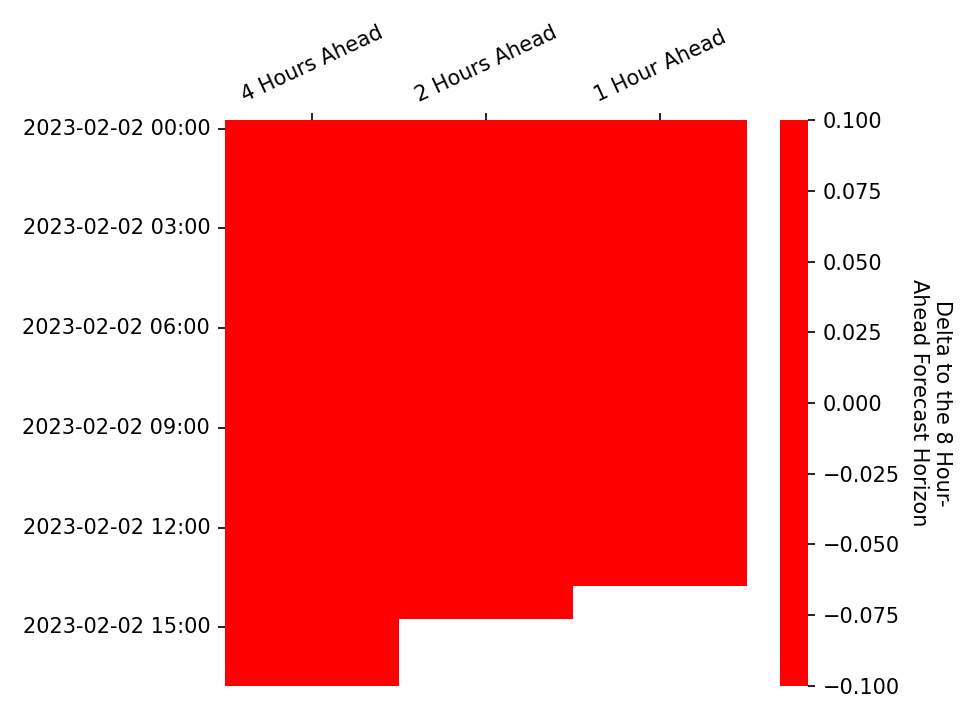
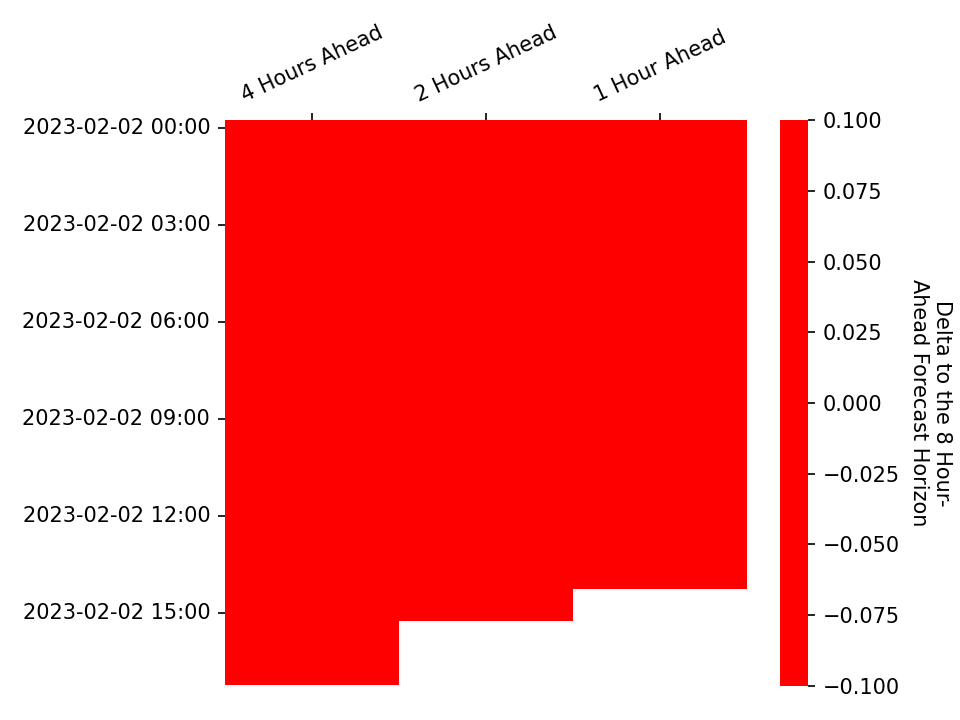
Apply automatic changes

diff --git a/docs/js/map.js b/docs/js/map.js
@@ -144,7 +144,7 @@ document.addEventListener("DOMContentLoaded", function() {
                 follow: 1
             });
             mymap.addControl(sliderControl);
-            sliderControl.startSlider(334);
+            sliderControl.startSlider(335);
         });
     });
 });

diff --git a/docs/visualisations.md b/docs/visualisations.md
@@ -60,7 +60,7 @@ In each settlement period the system operator publishes the de-rated margin fore
 * At 1200 hours on each calendar day for all Settlement Periods for which Gate Closure has not yet passed and which occur within the current Operational Day or the following Operational Day; and
 * At eight, four, two and one hour(s) prior to the beginning of the Settlement Period to which the De-Rated Margin Forecast relates.
 
-These figures will be updated on an hourly basis, the last update was at: 2023-02-02 15:10
+These figures will be updated on an hourly basis, the last update was at: 2023-02-02 15:40
 
 <br>
 
@@ -83,7 +83,7 @@ The following heatmap shows how the more recent de-rated margin forecasts deviat
 
 ### Power Output Map
 
-Last Updated: 2023-02-02 15:10
+Last Updated: 2023-02-02 15:40
 
 This map shows the power output of individual plants connected to the transmission grid as stated in their most recent Physical Notifications. This data can be retrieved through the *PHYBMDATA* BMRS stream, the out-turn data can be viewed one week later through the *B1610* stream. The scrollbar at the top of the map can be used to view how the generation sources have changed their output over the last week, the layer control can be used to toggle on/off the transmission network, and the plants themselves can be clicked to reveal additional information. The plant location data used in this map has been taking from a sister project, [the Power Station Dictionary](https://osuked.github.io/Power-Station-Dictionary/), which aims to link between data about individual power plants.
 
